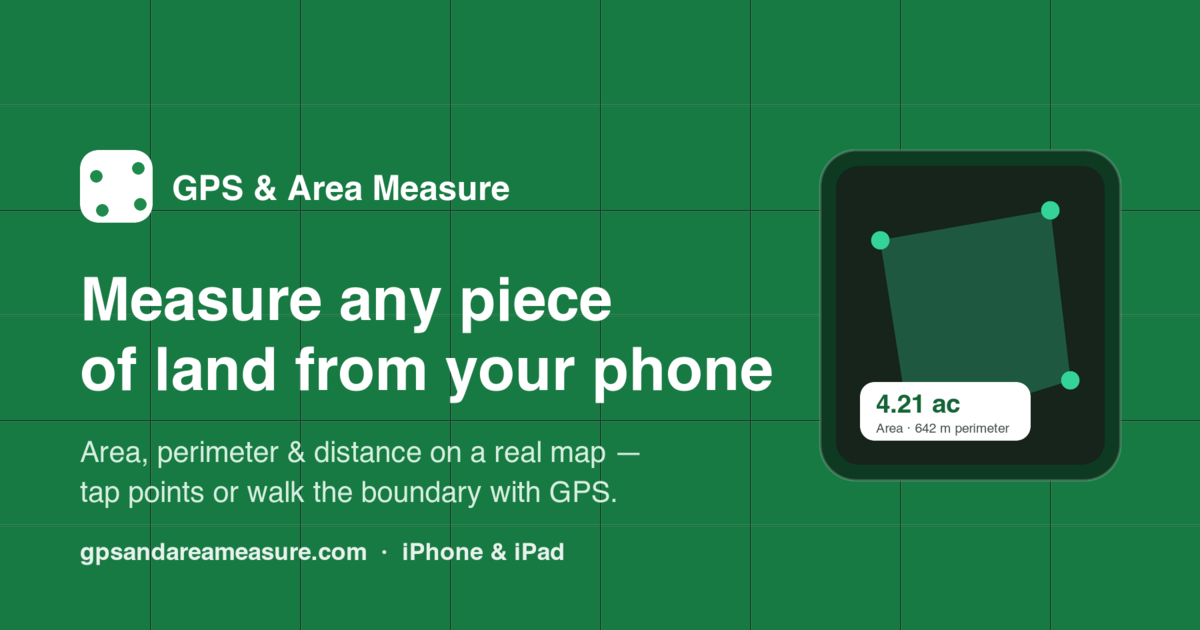
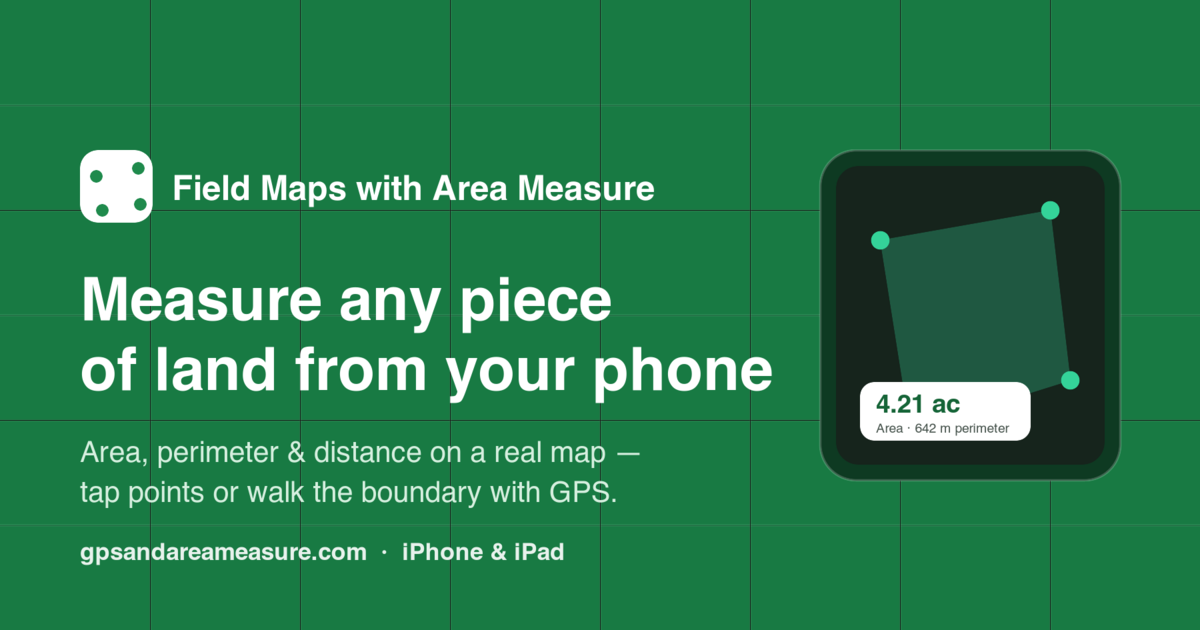
Rebrand to canonical app name: Field Maps with Area Measure

Changed region(s): [[0.1233, 0.2714, 0.555, 0.3317]]

diff --git a/index.html b/index.html
@@ -3,7 +3,7 @@
 <head>
   <meta charset="UTF-8" />
   <meta name="viewport" content="width=device-width, initial-scale=1.0" />
-  <title>GPS &amp; Area Measure — Measure Land Area, Perimeter &amp; Distance on a Map</title>
+  <title>Field Maps with Area Measure — Measure Land Area, Perimeter &amp; Distance on a Map</title>
   <meta name="description" content="Measure land area, perimeter, and distance on a map — tap points or walk the boundary with GPS. Native iPhone &amp; iPad app with offline use, team workspaces, and CSV/KML export." />
   <link rel="canonical" href="https://gpsandareameasure.com/" />
   <meta name="robots" content="index, follow, max-image-preview:large" />
@@ -13,17 +13,17 @@
 
   <!-- Open Graph / social sharing -->
   <meta property="og:type" content="website" />
-  <meta property="og:site_name" content="GPS &amp; Area Measure" />
-  <meta property="og:title" content="GPS &amp; Area Measure — Measure Land Area, Perimeter &amp; Distance" />
+  <meta property="og:site_name" content="Field Maps with Area Measure" />
+  <meta property="og:title" content="Field Maps with Area Measure — Measure Land Area, Perimeter &amp; Distance" />
   <meta property="og:description" content="Measure land area, perimeter, and distance on a real map — tap points or walk the boundary with GPS. iPhone &amp; iPad." />
   <meta property="og:url" content="https://gpsandareameasure.com/" />
   <meta property="og:image" content="https://gpsandareameasure.com/assets/og-image.png" />
   <meta property="og:image:width" content="1200" />
   <meta property="og:image:height" content="630" />
-  <meta property="og:image:alt" content="GPS &amp; Area Measure — measure any piece of land from your phone" />
+  <meta property="og:image:alt" content="Field Maps with Area Measure — measure any piece of land from your phone" />
   <meta property="og:locale" content="en_US" />
   <meta name="twitter:card" content="summary_large_image" />
-  <meta name="twitter:title" content="GPS &amp; Area Measure — Measure Land Area, Perimeter &amp; Distance" />
+  <meta name="twitter:title" content="Field Maps with Area Measure — Measure Land Area, Perimeter &amp; Distance" />
   <meta name="twitter:description" content="Measure land area, perimeter, and distance on a real map — tap points or walk the boundary with GPS." />
   <meta name="twitter:image" content="https://gpsandareameasure.com/assets/og-image.png" />
 
@@ -36,7 +36,7 @@
   {
     "@context": "https://schema.org",
     "@type": "MobileApplication",
-    "name": "GPS & Area Measure",
+    "name": "Field Maps with Area Measure",
     "operatingSystem": "iOS 17.0 or later",
     "applicationCategory": "UtilitiesApplication",
     "description": "Measure land area, perimeter, and distance on a map — tap points or walk the boundary with GPS. Works offline, supports team workspaces, and exports to CSV and KML.",
@@ -121,7 +121,7 @@
     <div class="container nav">
       <a class="brand" href="#top">
         <span class="brand-mark" aria-hidden="true">📐</span>
-        <span class="brand-name">GPS &amp; Area Measure</span>
+        <span class="brand-name">Field Maps with Area Measure</span>
       </a>
       <nav class="nav-links">
         <a href="#features">Features</a>
@@ -444,7 +444,7 @@
     <div class="modal" role="dialog" aria-modal="true" aria-labelledby="wl-title">
       <button class="modal-close" type="button" data-waitlist-close aria-label="Close">&times;</button>
       <h2 id="wl-title">Android is coming soon</h2>
-      <p>We're building the Android version of GPS &amp; Area Measure. Leave your email and we'll let
+      <p>We're building the Android version of Field Maps with Area Measure. Leave your email and we'll let
          you know the moment it's on Google Play.</p>
       <form id="wl-form" novalidate>
         <input type="email" id="wl-email" name="email" required placeholder="[email redacted]"
@@ -460,7 +460,7 @@
   <footer class="site-footer">
     <div class="container footer-grid">
       <div>
-        <span class="brand-name">GPS &amp; Area Measure</span>
+        <span class="brand-name">Field Maps with Area Measure</span>
         <p class="muted">Measure land area, perimeter, and distance on a map.</p>
       </div>
       <nav class="footer-links">
@@ -470,7 +470,7 @@
       </nav>
     </div>
     <div class="container">
-      <p class="muted small">© <span id="year"></span> GPS &amp; Area Measure. All rights reserved.</p>
+      <p class="muted small">© <span id="year"></span> Field Maps with Area Measure. All rights reserved.</p>
     </div>
   </footer>
 

diff --git a/j/index.html b/j/index.html
@@ -3,13 +3,13 @@
 <head>
   <meta charset="UTF-8" />
   <meta name="viewport" content="width=device-width, initial-scale=1.0" />
-  <title>Workspace invite — GPS &amp; Area Measure</title>
-  <meta name="description" content="You've been invited to a shared workspace in the GPS &amp; Area Measure app." />
+  <title>Workspace invite — Field Maps with Area Measure</title>
+  <meta name="description" content="You've been invited to a shared workspace in the Field Maps with Area Measure app." />
   <meta name="robots" content="noindex, follow" />
 
   <!-- Social preview (static) -->
   <meta property="og:type" content="website" />
-  <meta property="og:title" content="Workspace invite — GPS &amp; Area Measure" />
+  <meta property="og:title" content="Workspace invite — Field Maps with Area Measure" />
   <meta property="og:description" content="Join a shared workspace to measure land together in the app." />
   <meta property="og:image" content="https://gpsandareameasure.com/assets/og-image.png" />
   <meta name="twitter:card" content="summary_large_image" />
@@ -37,7 +37,7 @@
 <body>
   <div class="join-wrap">
     <div class="join-head">
-      <a class="brand" href="/"><span class="brand-mark">📐</span><span class="brand-name">GPS &amp; Area Measure</span></a>
+      <a class="brand" href="/"><span class="brand-mark">📐</span><span class="brand-name">Field Maps with Area Measure</span></a>
     </div>
     <div id="content">
       <div class="state"><h1>Loading invite…</h1></div>
@@ -71,14 +71,14 @@
     content.innerHTML = `
       <div class="join-card">
         <h1>You’re invited to a workspace</h1>
-        <p>Someone shared a <strong>GPS &amp; Area Measure</strong> workspace with you. Join to measure and
+        <p>Someone shared a <strong>Field Maps with Area Measure</strong> workspace with you. Join to measure and
            manage land together.</p>
         <div class="code-box">${escapeHtml(code)}</div>
         <div class="btn-row">
           <a class="btn" href="${escapeHtml(appStore)}">Get the app</a>
         </div>
         <ol class="steps">
-          <li>Install <strong>GPS &amp; Area Measure</strong> and open it.</li>
+          <li>Install <strong>Field Maps with Area Measure</strong> and open it.</li>
           <li>Tap your workspace name → <strong>Workspaces</strong> → <strong>Join with a code</strong>.</li>
           <li>Enter the code above and tap <strong>Join workspace</strong>.</li>
         </ol>

diff --git a/s/index.html b/s/index.html
@@ -3,13 +3,13 @@
 <head>
   <meta charset="UTF-8" />
   <meta name="viewport" content="width=device-width, initial-scale=1.0" />
-  <title>Shared measurement — GPS &amp; Area Measure</title>
-  <meta name="description" content="A land measurement shared from the GPS &amp; Area Measure app." />
+  <title>Shared measurement — Field Maps with Area Measure</title>
+  <meta name="description" content="A land measurement shared from the Field Maps with Area Measure app." />
   <meta name="robots" content="noindex, follow" />
 
   <!-- Social preview (static — GitHub Pages can't render per-item cards) -->
   <meta property="og:type" content="website" />
-  <meta property="og:title" content="Shared measurement — GPS &amp; Area Measure" />
+  <meta property="og:title" content="Shared measurement — Field Maps with Area Measure" />
   <meta property="og:description" content="View a land area, perimeter, and distance shared from the app." />
   <meta property="og:image" content="https://gpsandareameasure.com/assets/og-image.png" />
   <meta name="twitter:card" content="summary_large_image" />
@@ -44,7 +44,7 @@
 <body>
   <div class="share-wrap">
     <div class="share-head">
-      <a class="brand" href="/"><span class="brand-mark">📐</span><span class="brand-name">GPS &amp; Area Measure</span></a>
+      <a class="brand" href="/"><span class="brand-mark">📐</span><span class="brand-name">Field Maps with Area Measure</span></a>
       <div class="unit-toggle" id="units" hidden>
         <button data-u="ac">Acres</button>
         <button data-u="ha">Hectares</button>
@@ -160,7 +160,7 @@
         <div class="stats">${stats.join("")}</div>
         <div id="map"></div>
         <div class="cta-strip">
-          <strong>Measured with GPS &amp; Area Measure</strong>
+          <strong>Measured with Field Maps with Area Measure</strong>
           <a class="btn" href="${cfg.APP_STORE_URL || "/"}">Get the app</a>
         </div>`;
 

diff --git a/privacy.html b/privacy.html
@@ -3,8 +3,8 @@
 <head>
   <meta charset="UTF-8" />
   <meta name="viewport" content="width=device-width, initial-scale=1.0" />
-  <title>Privacy Policy — GPS &amp; Area Measure</title>
-  <meta name="description" content="Privacy Policy for the GPS &amp; Area Measure app — what data is collected, how it is used, and your choices." />
+  <title>Privacy Policy — Field Maps with Area Measure</title>
+  <meta name="description" content="Privacy Policy for the Field Maps with Area Measure app — what data is collected, how it is used, and your choices." />
   <link rel="canonical" href="https://gpsandareameasure.com/privacy.html" />
   <meta name="robots" content="index, follow" />
   <link rel="icon" href="assets/favicon.svg" type="image/svg+xml" />
@@ -13,7 +13,7 @@
 <body>
   <header class="site-header">
     <div class="container nav">
-      <a class="brand" href="index.html"><span class="brand-mark">📐</span><span class="brand-name">GPS &amp; Area Measure</span></a>
+      <a class="brand" href="index.html"><span class="brand-mark">📐</span><span class="brand-name">Field Maps with Area Measure</span></a>
     </div>
   </header>
   <main class="section">
@@ -21,7 +21,7 @@
       <h1>Privacy Policy</h1>
       <p class="muted">Last updated: <span id="date"></span></p>
 
-      <p>GPS &amp; Area Measure ("the app") is designed to work without an account and to keep your
+      <p>Field Maps with Area Measure ("the app") is designed to work without an account and to keep your
       data on your device. This page explains what the app does and does not collect.</p>
 
       <h2>Location data</h2>

diff --git a/terms.html b/terms.html
@@ -3,8 +3,8 @@
 <head>
   <meta charset="UTF-8" />
   <meta name="viewport" content="width=device-width, initial-scale=1.0" />
-  <title>Terms of Use — GPS &amp; Area Measure</title>
-  <meta name="description" content="Terms of Use for the GPS &amp; Area Measure app and website." />
+  <title>Terms of Use — Field Maps with Area Measure</title>
+  <meta name="description" content="Terms of Use for the Field Maps with Area Measure app and website." />
   <link rel="canonical" href="https://gpsandareameasure.com/terms.html" />
   <meta name="robots" content="index, follow" />
   <link rel="icon" href="assets/favicon.svg" type="image/svg+xml" />
@@ -13,7 +13,7 @@
 <body>
   <header class="site-header">
     <div class="container nav">
-      <a class="brand" href="index.html"><span class="brand-mark">📐</span><span class="brand-name">GPS &amp; Area Measure</span></a>
+      <a class="brand" href="index.html"><span class="brand-mark">📐</span><span class="brand-name">Field Maps with Area Measure</span></a>
     </div>
   </header>
   <main class="section">
@@ -21,7 +21,7 @@
       <h1>Terms of Use</h1>
       <p class="muted">Last updated: <span id="date"></span></p>
 
-      <p>By downloading or using GPS &amp; Area Measure ("the app"), you agree to these terms.</p>
+      <p>By downloading or using Field Maps with Area Measure ("the app"), you agree to these terms.</p>
 
       <h2>Measurement accuracy</h2>
       <p>The app provides estimates of area, perimeter, and distance. Accuracy depends on GPS

diff --git a/assets/analytics.js b/assets/analytics.js
@@ -1,5 +1,5 @@
 /* ============================================================
-   GPS & Area Measure — analytics + consent + attribution
+   Field Maps with Area Measure — analytics + consent + attribution
    ------------------------------------------------------------
    - GA4 via Google Consent Mode v2 (cookies only after consent)
    - Minimal cookie-consent banner (GDPR/UK)